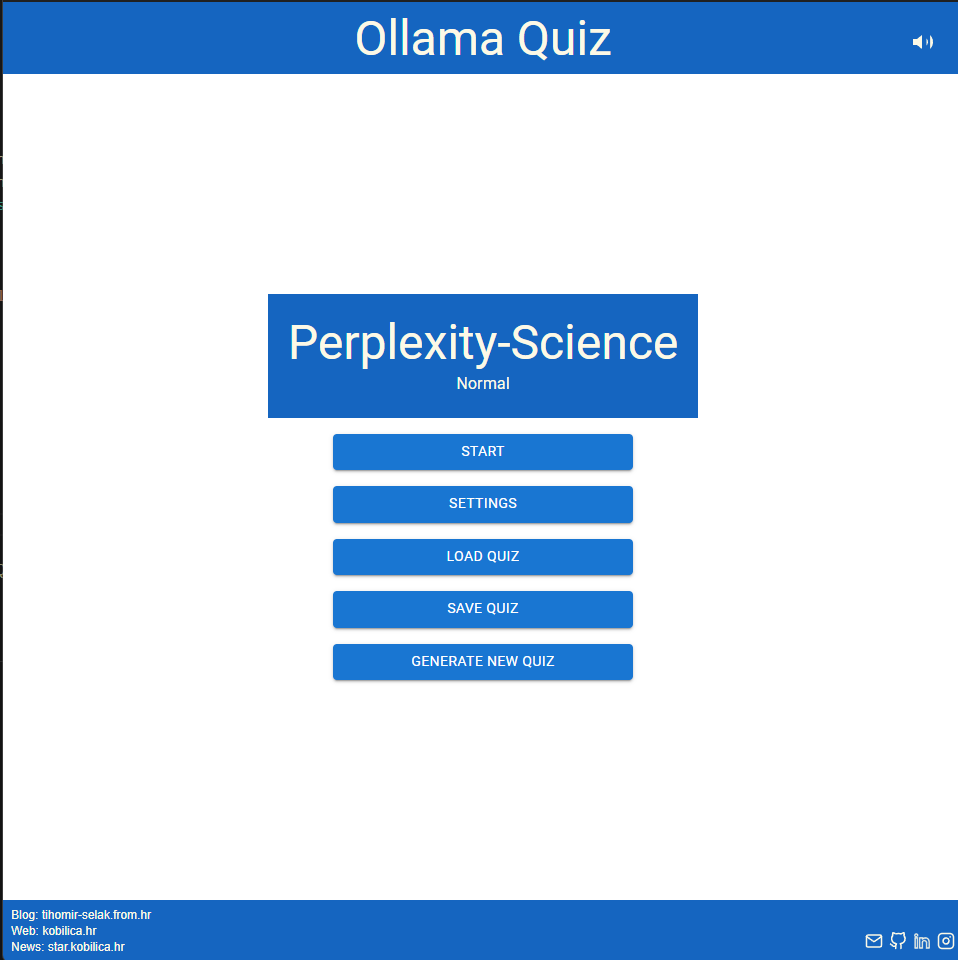
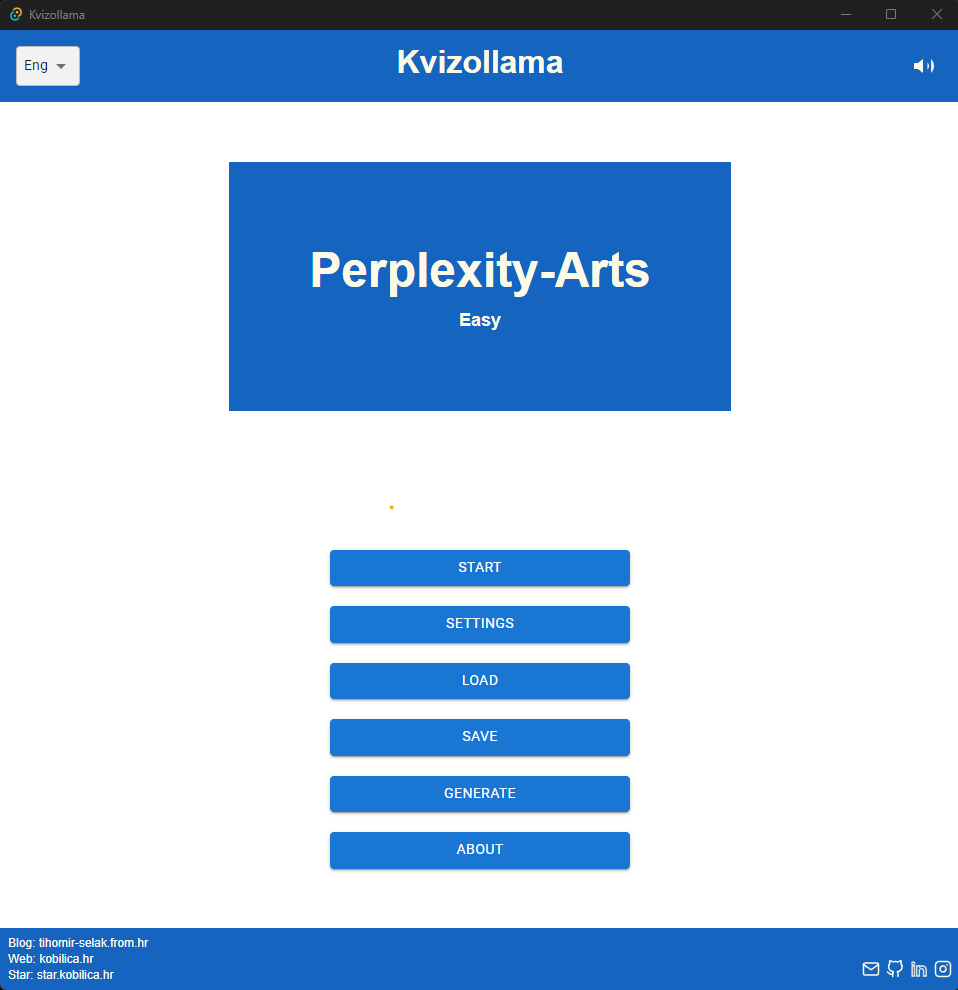
KVI-01: Update name

Changed region(s): [[0.2119, 0.1562, 0.7871, 0.9062], [0.0, 0.0, 1.0, 1.0], [0.8779, 0.9688, 0.999, 1.0]]

diff --git a/README.md b/README.md
@@ -1,6 +1,6 @@
-## Ollama Quiz Readme: The Ultimate Quiz Generator
+## Kvizollama Readme: The Ultimate Quiz Generator
 
-Welcome to the world of interactive education with Ollama Quiz! This guide will take you through every step from installing and setting up your environment, creating quizzes tailored to various topics, configuring difficulty levels, and tracking user performance.
+Welcome to the world of interactive education with Kvizollama! This guide will take you through every step from installing and setting up your environment, creating quizzes tailored to various topics, configuring difficulty levels, and tracking user performance.
 
 <div align="center">
    <img alt="App" src="./assets/app.png" width="620" />
@@ -20,7 +20,7 @@ Welcome to the world of interactive education with Ollama Quiz! This guide will 
 
 🌟 **Compatibility**: Seamless integration with popular email services for distributing your quizzes.
 
-### How to Use Ollama Quiz:
+### How to Use Kvizollama:
 
 1. **Setup Your Quiz**: Choose a quiz topic, set the number of questions per topic, and define the difficulty level based on your target audience's familiarity with the subject.
 2. **Question Management**: Import or export lists of questions using various formats for organization and sharing.
